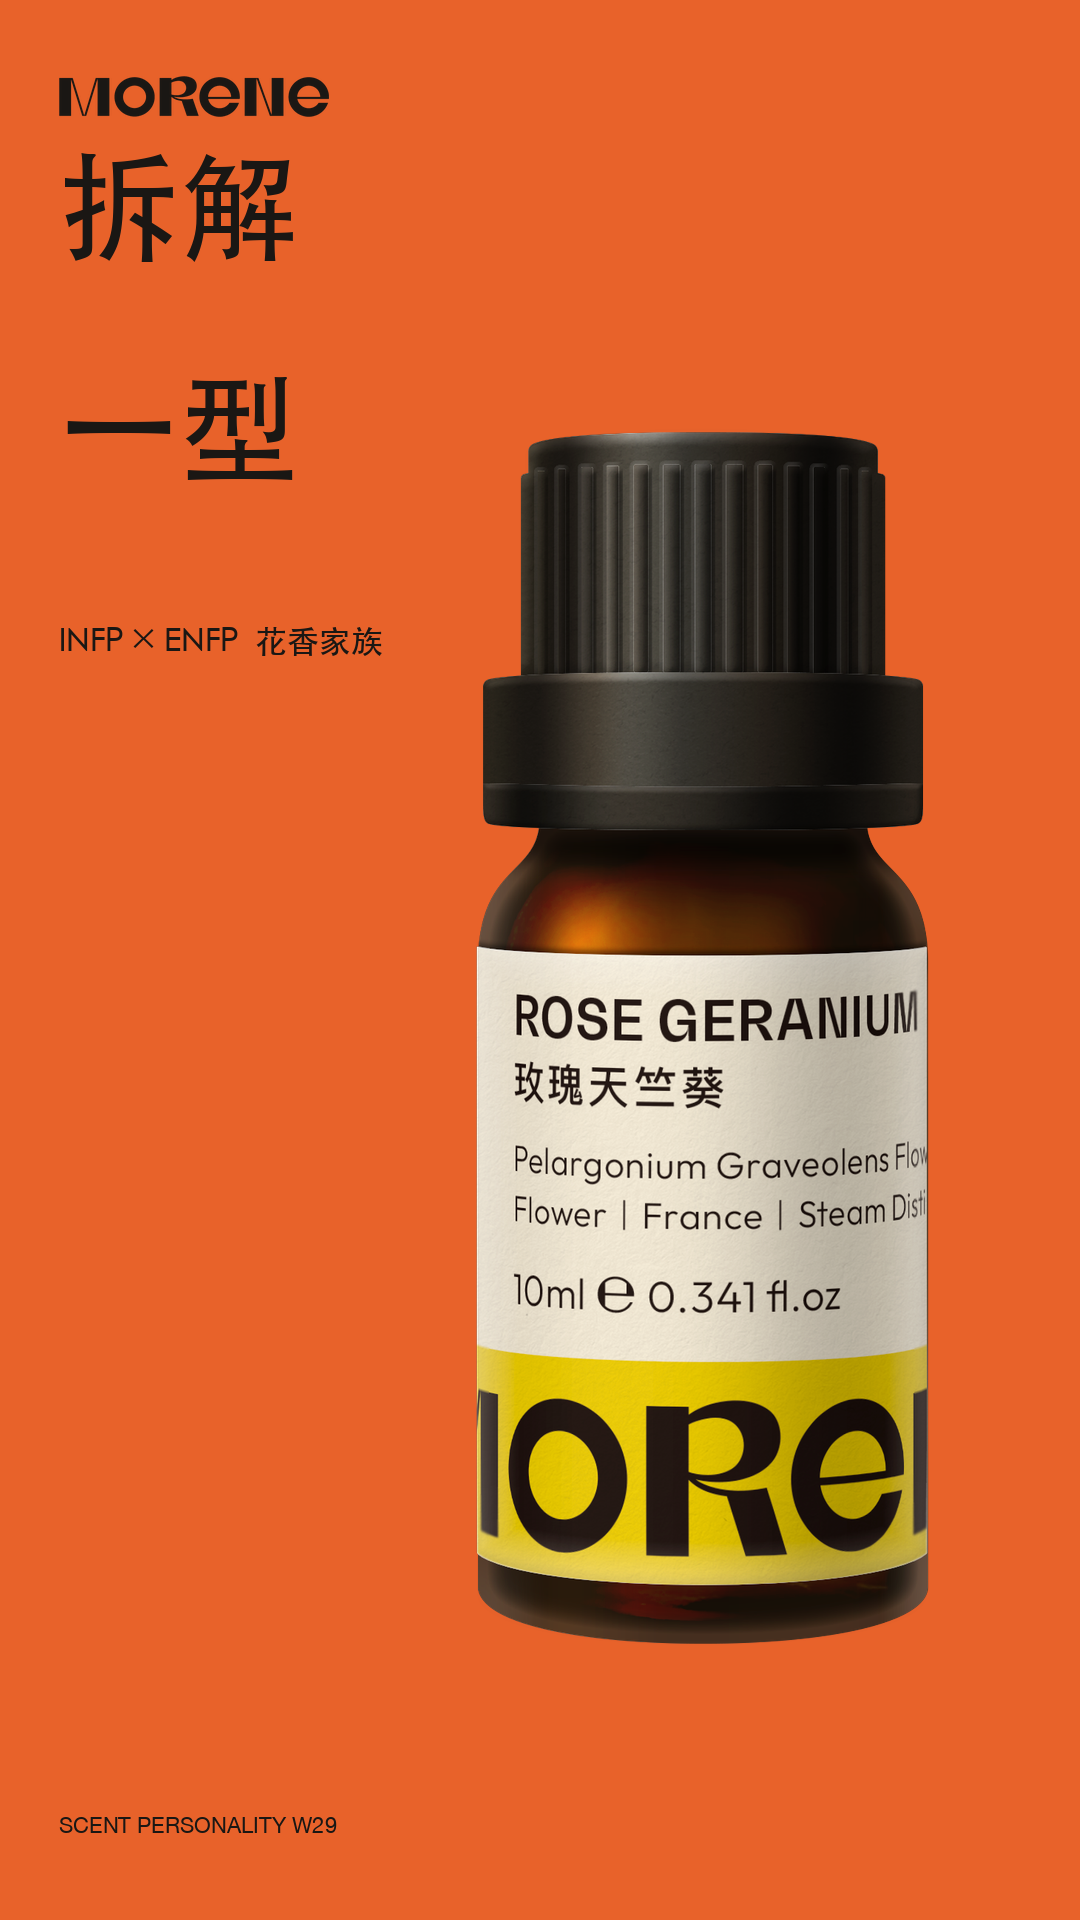
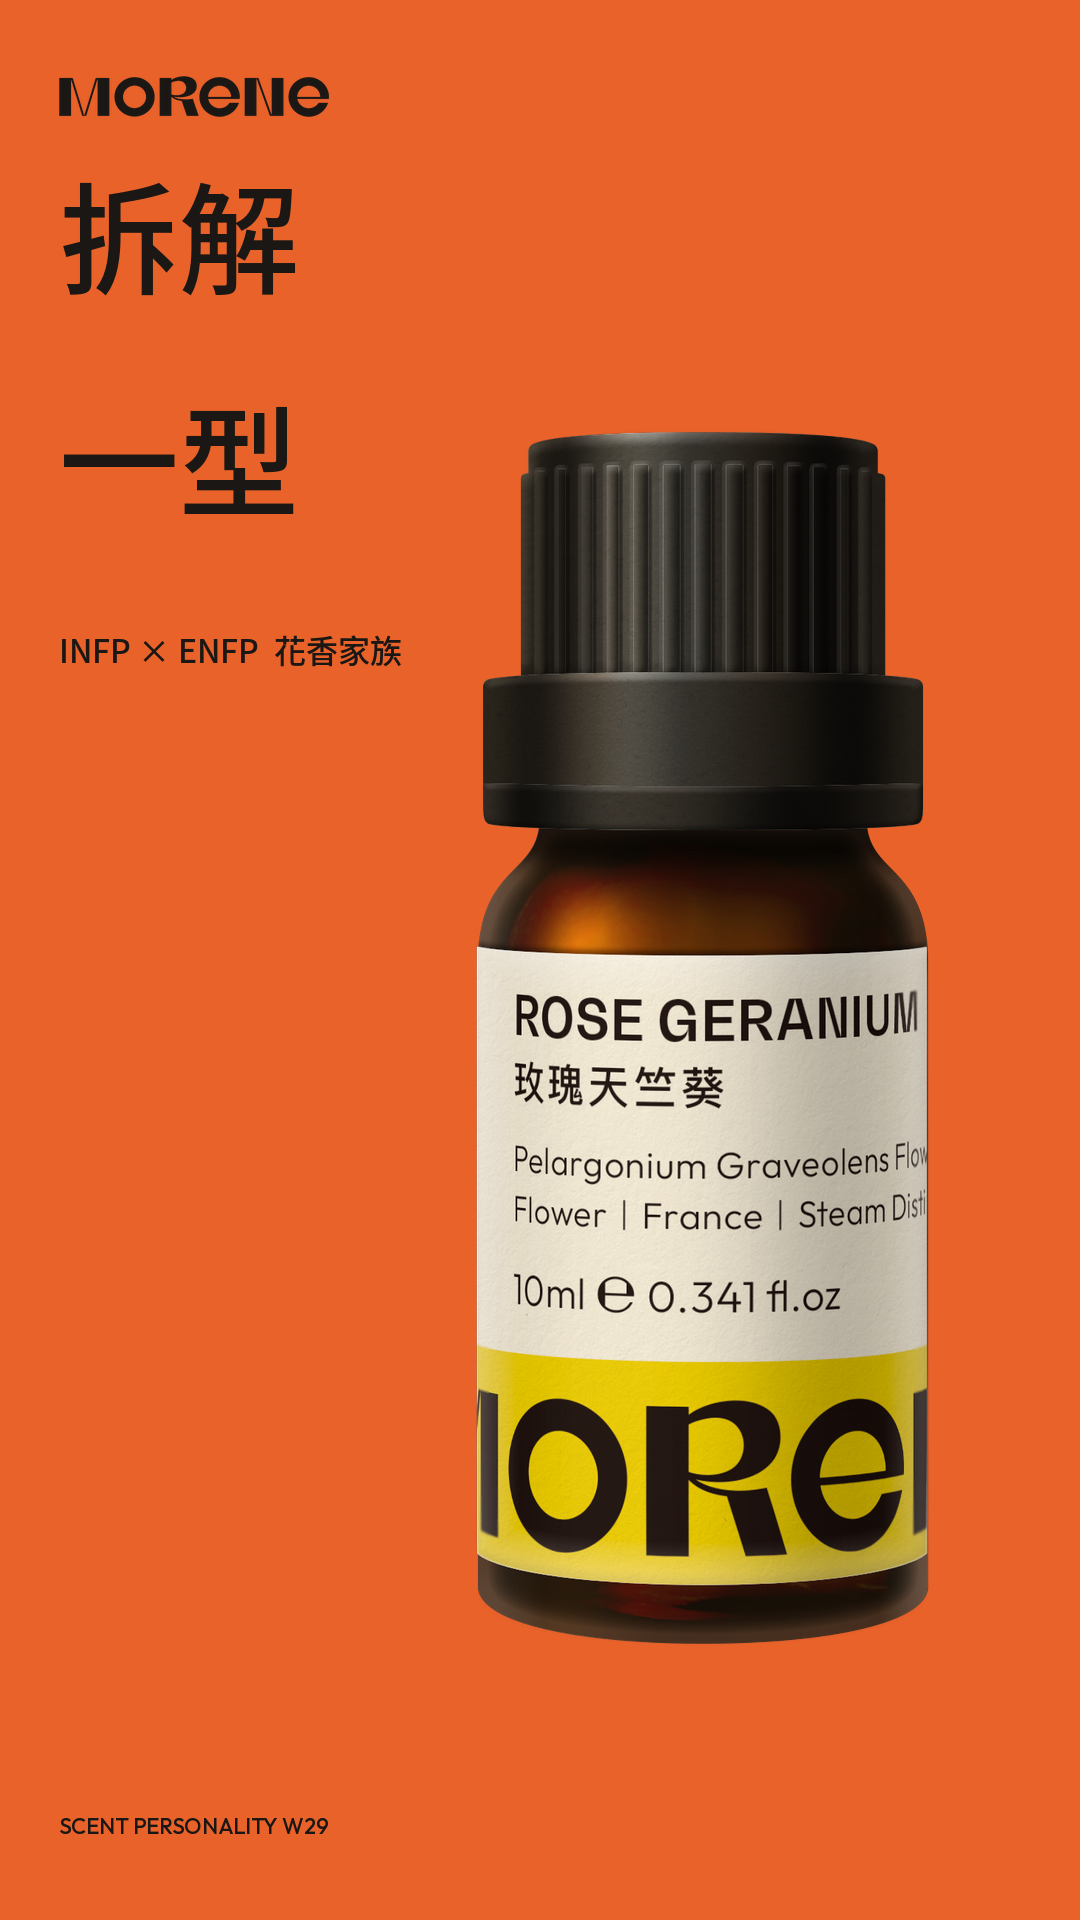
MORENE 封面:套規範字體 BW Gradual(英)+ Noto Sans TC(中)+ Outfit(小字)

diff --git a/MORENE/make_covers_v2.py b/MORENE/make_covers_v2.py
@@ -17,9 +17,11 @@ OUT_BASE = "/Users/morrislin/mw-social-assets/MORENE"
 # =====================
 # 字體
 # =====================
-FONT_EN_BOLD = "/System/Library/Fonts/Futura.ttc"
-FONT_EN      = "/System/Library/Fonts/HelveticaNeue.ttc"
-FONT_ZH      = "/System/Library/Fonts/STHeiti Medium.ttc"
+_FD = os.path.dirname(os.path.abspath(__file__)) + "/_fonts"
+FONT_EN_BOLD = _FD + "/BwGradualDEMO-Black.otf"      # 規範英文 display
+FONT_EN      = _FD + "/Outfit-Medium.ttf"            # 規範英文 body/小字
+FONT_ZH      = _FD + "/NotoSansTC-Medium.otf"        # 規範中文
+FONT_ZH_BOLD = _FD + "/NotoSansTC-Black.otf"
 
 def fnt(path, size, index=0):
     try:
